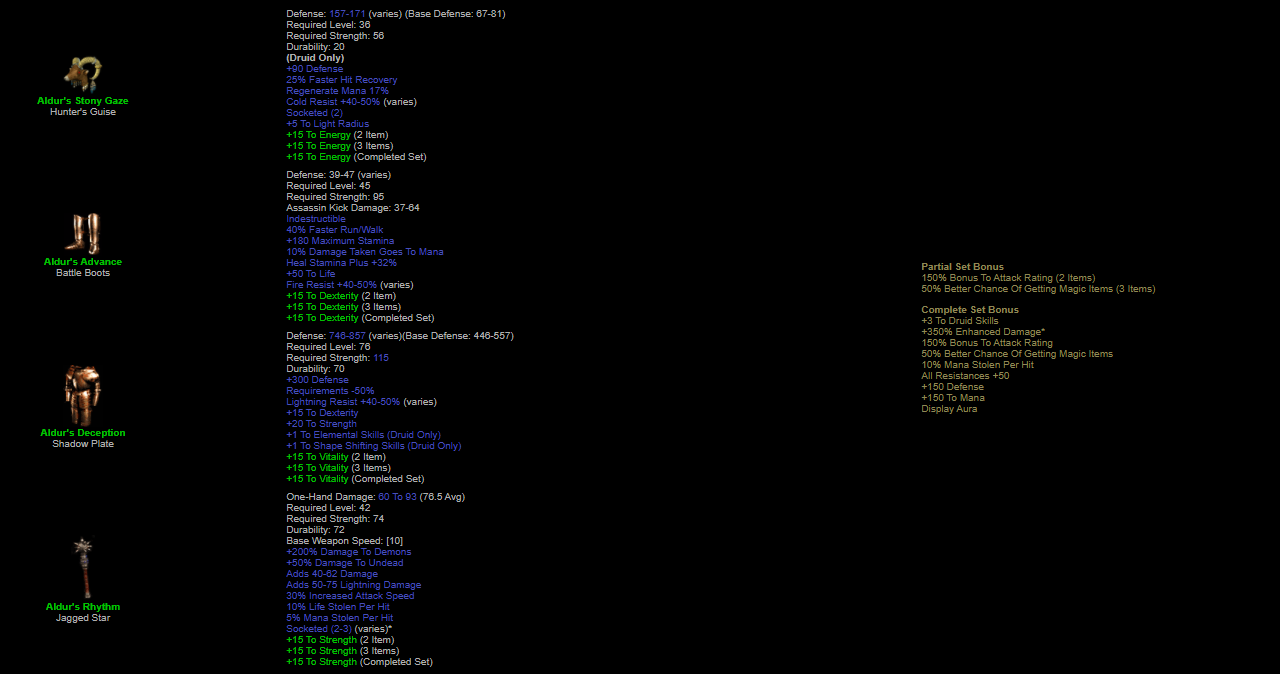
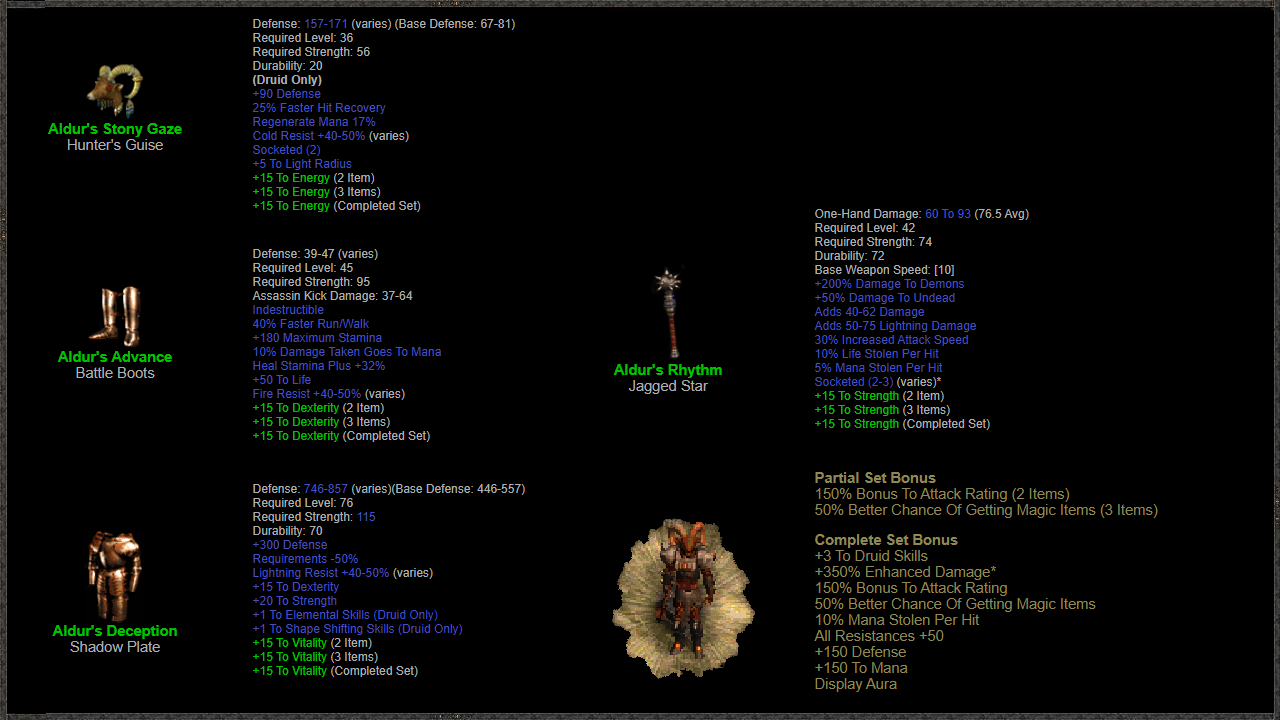
UpgradeDone

diff --git a/Pages/AldursPage.xaml b/Pages/AldursPage.xaml
@@ -38,29 +38,31 @@
                 <ImageBrush ImageSource="/Images/MenuBtn.png"/>
             </Button.Background>
         </Button>
-        <WrapPanel Margin="0,0,604,0">
+        <WrapPanel Margin="10,10,711,10">
             <WrapPanel x:Name="Pic1" 
-                Background="#99000000" Width="650" Height="170">
+                Background="#99000000" Width="550" Height="220">
                 <CheckBox x:Name="Aldur_s_Stony_Gaze" 
-                    Margin="30,30,0,0"
+                    Margin="10,30,0,0"
                     Content="" ToolTip="Diablo (Nightmare) 1:441" Checked="Aldur_s_Stony_Gaze_Checked" Unchecked="Aldur_s_Stony_Gaze_Unchecked"/>
             </WrapPanel>
             <WrapPanel x:Name="Pic2" 
-                Background="#99000000" Height="160" Width="650">
+                Background="#99000000" Height="220" Width="550">
                 <CheckBox x:Name="Aldur_s_Advance"
-                    Margin="30,40,0,0"
+                    Margin="10,30,0,0"
                     Content="" ToolTip="Baal (Nightmare) 1:519" Checked="Aldur_s_Advance_Checked" Unchecked="Aldur_s_Advance_Unchecked"/>
             </WrapPanel>
             <WrapPanel x:Name="Pic3"
-                Background="#99000000" Height="160" Width="650">
+                Background="#99000000" Height="240" Width="550">
                 <CheckBox x:Name="Aldur_s_Deception"
-                    Margin="30,40,0,0" 
+                    Margin="10,30,0,0" 
                     Content="" ToolTip="Baal (Hell) 1:807" Checked="Aldur_s_Deception_Checked" Unchecked="Aldur_s_Deception_Unchecked"/>
             </WrapPanel>
+        </WrapPanel>
+        <WrapPanel Margin="574,187,123,262">
             <WrapPanel x:Name="Pic4"
-                Background="#99000000" Height="210" Width="650">
+                Background="#99000000" Height="250" Width="550">
                 <CheckBox x:Name="Aldur_s_Rhythm"
-                    Margin="20,40,0,0"
+                    Margin="10,30,0,0"
                     Content="" ToolTip="Mephisto (Nightmare) 1:212" Checked="Aldur_s_Rhythm_Checked" Unchecked="Aldur_s_Rhythm_Unchecked"/>
             </WrapPanel>
         </WrapPanel>
